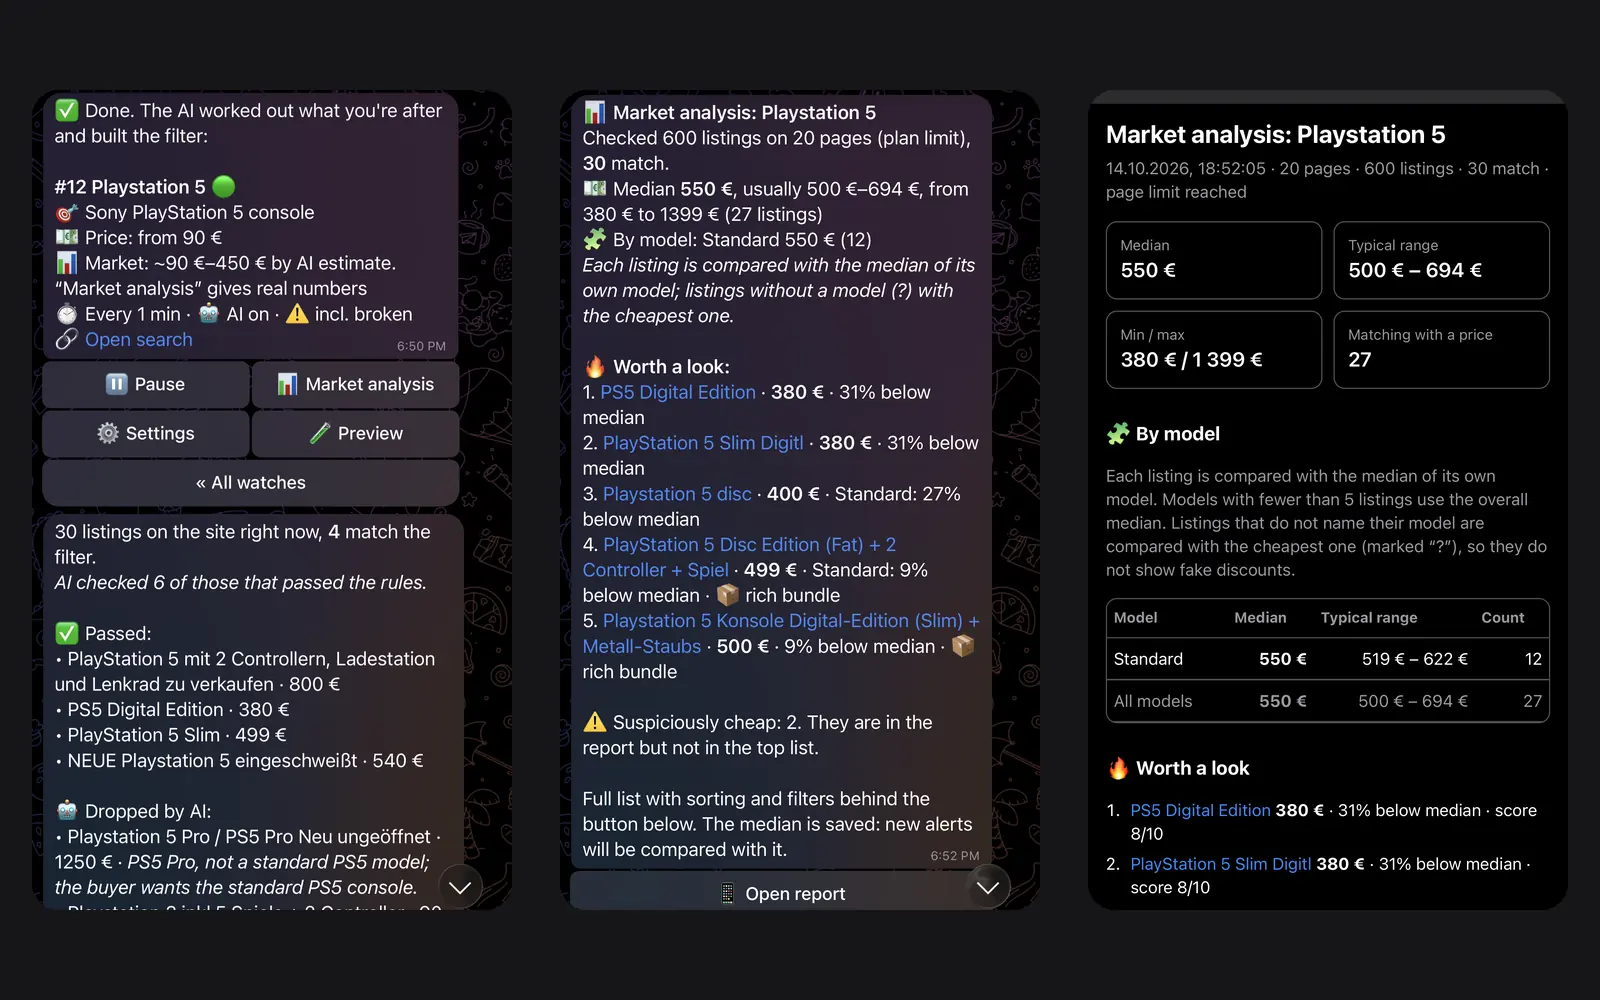
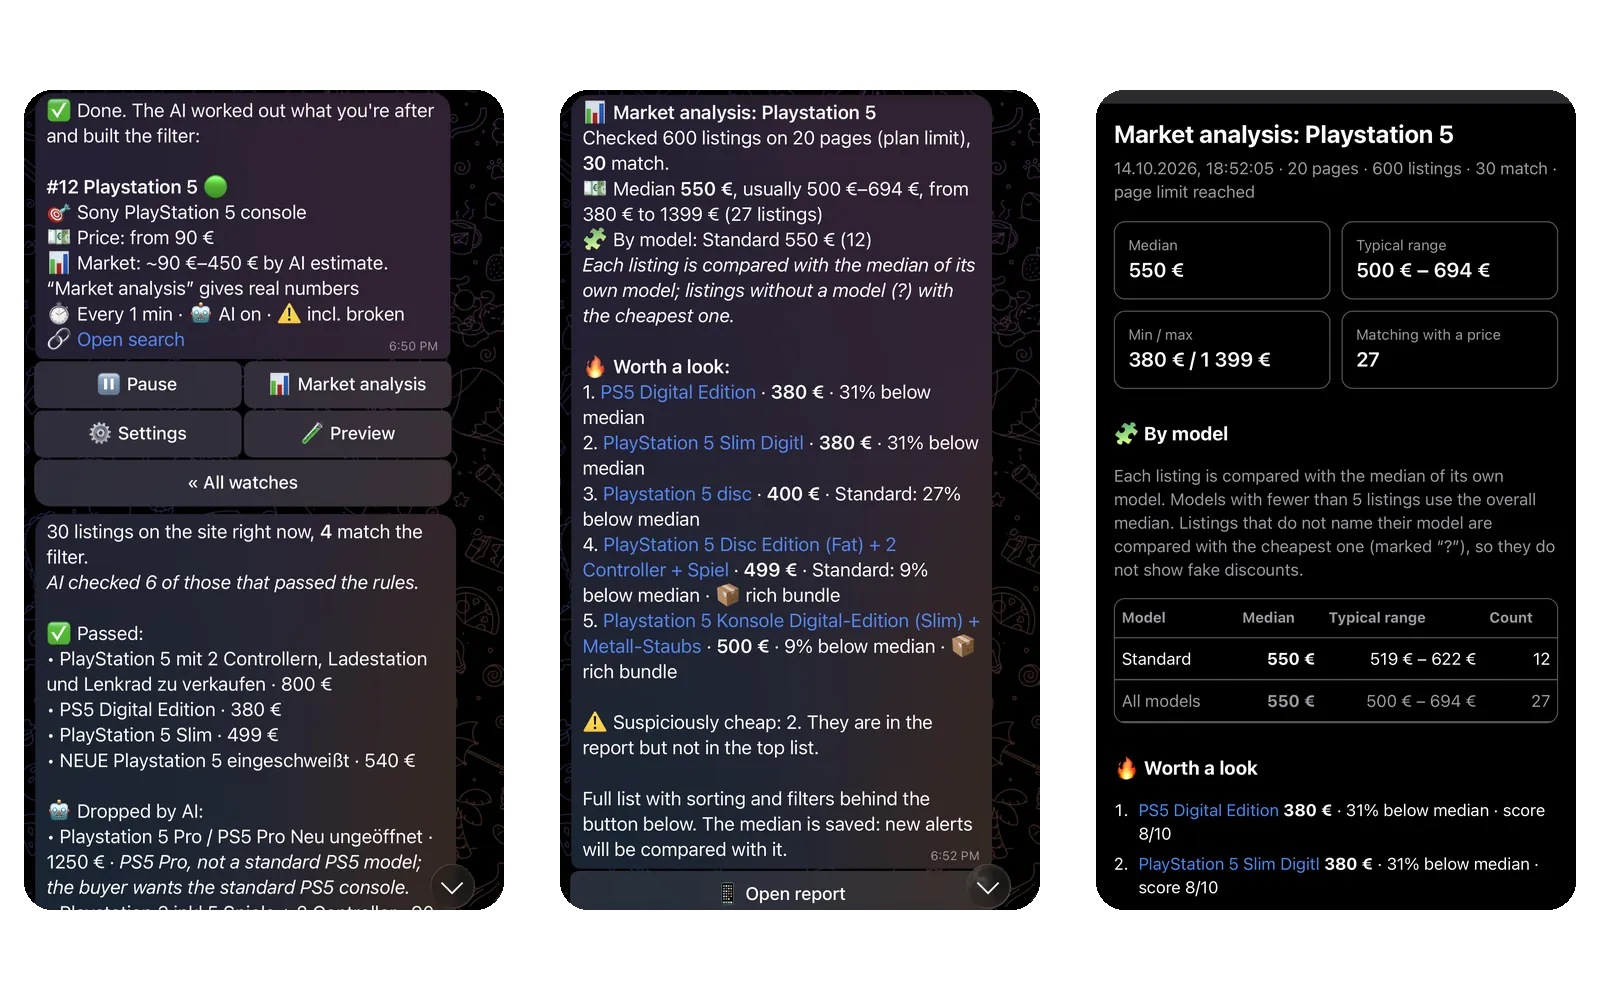
fix(ui): light-theme covers, outline case-study button, hero and anchor spacing

diff --git a/src/features/projects/project-cover.tsx b/src/features/projects/project-cover.tsx
@@ -6,49 +6,74 @@ type Props = {
   title: string;
   /** Path under /public. Without it a typographic cover is rendered. */
   src?: string;
+  /** Light-theme variant; falls back to `src`. */
+  srcLight?: string;
+  kind?: "screen" | "devices";
   alt: string;
   /** Only the first cover on the page is above the fold on large screens. */
   priority?: boolean;
   className?: string;
 };
 
+const SIZES = "(min-width: 1024px) 680px, 100vw";
+
 /**
- * 16:10 project cover framed as a minimal browser window, so screenshots
- * of very different products read as one consistent set.
+ * 16:10 project cover on a soft "stage": a tinted panel with the
+ * screenshot inset like a product shot. Dark and light screenshots both
+ * sit comfortably on it, in either theme.
  *
- * Without a screenshot the frame shows the project title set large — the
- * layout stays identical, and dropping a file into /public later is the
- * only change needed.
+ * Theme variants: when a light cover exists, both images are rendered and
+ * CSS shows the right one. Lazy images hidden with display:none are never
+ * fetched, so below the fold only the visible variant is downloaded.
  */
-export function ProjectCover({ title, src, alt, priority, className }: Props) {
+export function ProjectCover({
+  title,
+  src,
+  srcLight,
+  kind = "screen",
+  alt,
+  priority,
+  className,
+}: Props) {
+  const image = (path: string, extra?: string) => (
+    <Image
+      src={path}
+      alt={alt}
+      fill
+      priority={priority}
+      sizes={SIZES}
+      className={cn(
+        kind === "devices" ? "object-contain" : "object-cover object-top",
+        extra
+      )}
+    />
+  );
+
   return (
     <div
       className={cn(
-        "overflow-hidden rounded-xl border border-border bg-card shadow-sm",
+        "rounded-2xl bg-[hsl(var(--stage))] p-[5%] ring-1 ring-inset ring-border",
         className
       )}
     >
       <div
-        aria-hidden
-        className="flex h-7 items-center gap-1.5 border-b border-border bg-muted/60 px-3"
+        className={cn(
+          "relative aspect-[16/10] overflow-hidden",
+          kind === "screen" &&
+            "rounded-lg bg-card shadow-[0_1px_2px_hsl(var(--foreground)/0.06),0_12px_32px_-12px_hsl(var(--foreground)/0.25)] ring-1 ring-foreground/5"
+        )}
       >
-        <span className="h-2 w-2 rounded-full bg-border" />
-        <span className="h-2 w-2 rounded-full bg-border" />
-        <span className="h-2 w-2 rounded-full bg-border" />
-      </div>
-
-      <div className="relative aspect-[16/10] bg-muted">
         {src ? (
-          <Image
-            src={src}
-            alt={alt}
-            fill
-            priority={priority}
-            sizes="(min-width: 1024px) 680px, 100vw"
-            className="object-cover object-top"
-          />
+          srcLight ? (
+            <>
+              {image(srcLight, "dark:hidden")}
+              {image(src, "hidden dark:block")}
+            </>
+          ) : (
+            image(src)
+          )
         ) : (
-          <div className="absolute inset-0 flex items-end bg-[radial-gradient(hsl(var(--border))_1px,transparent_1px)] p-6 [background-size:16px_16px] sm:p-10">
+          <div className="absolute inset-0 flex items-end bg-card p-6 sm:p-10">
             <p
               aria-hidden
               className="max-w-[14ch] text-balance text-3xl font-semibold leading-[1.05] tracking-[-0.03em] text-foreground/80 sm:text-5xl"

diff --git a/src/features/projects/flagship-project.tsx b/src/features/projects/flagship-project.tsx
@@ -32,6 +32,8 @@ export async function FlagshipProject({ project, index }: Props) {
       <ProjectCover
         title={title}
         src={project.media.cover}
+        srcLight={project.media.coverLight}
+        kind={project.media.coverKind}
         alt={t("coverAlt", { title })}
         priority={index === 0}
         className={cn("lg:col-span-7", reversed && "lg:order-2")}
@@ -80,11 +82,14 @@ export async function FlagshipProject({ project, index }: Props) {
         <div className="mt-7 flex flex-wrap items-center gap-x-6 gap-y-3">
           <Link
             href={`/projects/${project.slug}`}
-            className="inline-flex items-center gap-2 rounded-md bg-primary px-4 py-2 text-sm font-medium text-primary-foreground transition-colors hover:bg-primary/90 focus-visible:outline-none focus-visible:ring-2 focus-visible:ring-ring focus-visible:ring-offset-2 focus-visible:ring-offset-background"
+            className="group inline-flex items-center gap-2 rounded-md border border-foreground/20 px-4 py-2 text-sm font-medium transition-colors hover:border-foreground/40 hover:bg-muted focus-visible:outline-none focus-visible:ring-2 focus-visible:ring-ring focus-visible:ring-offset-2 focus-visible:ring-offset-background"
           >
             {t("caseStudy.open")}
             <span className="sr-only">: {title}</span>
-            <FiArrowRight aria-hidden className="h-4 w-4" />
+            <FiArrowRight
+              aria-hidden
+              className="h-4 w-4 transition-transform group-hover:translate-x-0.5"
+            />
           </Link>
           <ProjectLinks project={project} title={title} />
         </div>

diff --git a/src/features/hero/hero-section.tsx b/src/features/hero/hero-section.tsx
@@ -30,7 +30,7 @@ export async function HeroSection() {
   return (
     <section
       aria-labelledby="hero-heading"
-      className="relative pb-16 pt-12 sm:pb-24 sm:pt-20 lg:pb-28 lg:pt-24"
+      className="relative pb-14 pt-10 sm:pb-20 sm:pt-14 lg:pb-24 lg:pt-16"
     >
       <Container>
         <p
@@ -45,12 +45,12 @@ export async function HeroSection() {
 
         <h1
           id="hero-heading"
-          className="mt-8 max-w-[19ch] hyphens-auto break-words text-balance text-[2.25rem] font-semibold leading-[1.02] tracking-[-0.035em] sm:text-6xl lg:text-7xl xl:text-[5.25rem]"
+          className="mt-6 max-w-[20ch] text-balance break-words text-[2.25rem] font-semibold leading-[1.04] tracking-[-0.035em] sm:text-5xl lg:text-6xl xl:text-[4.25rem]"
         >
           {t("title")}
         </h1>
 
-        <div className="mt-12 grid gap-10 border-t border-border pt-10 lg:mt-16 lg:grid-cols-12 lg:items-end lg:gap-8">
+        <div className="mt-10 grid gap-10 border-t border-border pt-8 lg:mt-12 lg:grid-cols-12 lg:items-end lg:gap-8">
           <div className={cn("lg:col-span-6", enter, "motion-safe:delay-150")}>
             <p className="max-w-[52ch] text-pretty text-base leading-relaxed text-muted-foreground sm:text-lg">
               {t("subtitle")}

diff --git a/src/features/projects/project-gallery.tsx b/src/features/projects/project-gallery.tsx
@@ -19,7 +19,7 @@ export function ProjectGallery({ images, altFor }: Props) {
           <li
             key={img.src}
             className={cn(
-              "overflow-hidden rounded-xl border border-border bg-muted",
+              "overflow-hidden rounded-xl bg-[hsl(var(--stage))] p-3 ring-1 ring-inset ring-border sm:p-4",
               portrait ? "mx-auto w-full max-w-sm" : "sm:col-span-2"
             )}
           >
@@ -33,7 +33,7 @@ export function ProjectGallery({ images, altFor }: Props) {
                   ? "(min-width: 640px) 384px, 100vw"
                   : "(min-width: 1280px) 1216px, 100vw"
               }
-              className="h-auto w-full"
+              className="h-auto w-full rounded-lg ring-1 ring-foreground/5"
             />
           </li>
         );

diff --git a/src/features/projects/types.ts b/src/features/projects/types.ts
@@ -61,6 +61,18 @@ export type GalleryImage = {
 export type ProjectMedia = {
   /** 16:10 cover under /public, e.g. "/projects/styleme/cover.webp". */
   cover?: string;
+  /**
+   * Optional light-theme variant. Without it the same cover is used in
+   * both themes — dark screenshots still sit on a soft stage, so they
+   * never look like a black hole in the light theme.
+   */
+  coverLight?: string;
+  /**
+   * "screen" (default): a website screenshot, shown as a framed screen.
+   * "devices": a transparent composite (e.g. phone screens) placed
+   * directly on the stage, without a frame.
+   */
+  coverKind?: "screen" | "devices";
   /** Extra screenshots for the case study page. */
   gallery: readonly GalleryImage[];
 };

diff --git a/src/features/projects/data.ts b/src/features/projects/data.ts
@@ -32,6 +32,7 @@ export const projects = [
     services: ["crm-systems", "business-websites"],
     media: {
       cover: "/projects/restaurant-crm/cover.webp",
+      coverLight: "/projects/restaurant-crm/cover-light.webp",
       gallery: [
         {
           src: "/projects/restaurant-crm/floor-plan.webp",
@@ -70,6 +71,7 @@ export const projects = [
     services: ["bots-automation", "ai-integrations"],
     media: {
       cover: "/projects/dealradar/cover.webp",
+      coverKind: "devices",
       gallery: [
         {
           src: "/projects/dealradar/market-analysis.webp",

diff --git a/src/app/[locale]/page.tsx b/src/app/[locale]/page.tsx
@@ -43,7 +43,7 @@ function SectionPlaceholders() {
             key={item.id}
             id={item.id}
             aria-labelledby={`${item.id}-heading`}
-            className="scroll-mt-20 rounded-lg border border-dashed border-border bg-card/40 p-8"
+            className="scroll-mt-16 rounded-lg border border-dashed border-border bg-card/40 p-8"
           >
             <p className="font-mono text-[10px] uppercase tracking-[0.2em] text-muted-foreground">
               #{item.id}

diff --git a/src/app/globals.css b/src/app/globals.css
@@ -22,6 +22,7 @@
     --accent-foreground: 0 0% 4%;
     --destructive: 0 72% 51%;
     --destructive-foreground: 60 18% 97%;
+    --stage: 40 18% 91%;
     --radius: 0.75rem;
   }
   .dark {
@@ -42,6 +43,7 @@
     --accent-foreground: 240 5% 5%;
     --destructive: 0 62% 40%;
     --destructive-foreground: 60 14% 96%;
+    --stage: 240 4% 10%;
   }
   * { @apply border-border; }
   html {

diff --git a/src/features/projects/projects-section.tsx b/src/features/projects/projects-section.tsx
@@ -21,7 +21,7 @@ export async function ProjectsSection() {
     <section
       id="projects"
       aria-labelledby="projects-heading"
-      className="scroll-mt-20 border-t border-border py-20 sm:py-28"
+      className="scroll-mt-16 border-t border-border pb-20 pt-14 sm:pb-28 sm:pt-20"
     >
       <Container>
         <header className="max-w-2xl">

diff --git a/src/features/projects/case-study.tsx b/src/features/projects/case-study.tsx
@@ -69,6 +69,8 @@ export async function CaseStudy({ project }: Props) {
         <ProjectCover
           title={title}
           src={project.media.cover}
+          srcLight={project.media.coverLight}
+          kind={project.media.coverKind}
           alt={t("coverAlt", { title })}
           priority
           className="mt-14"
